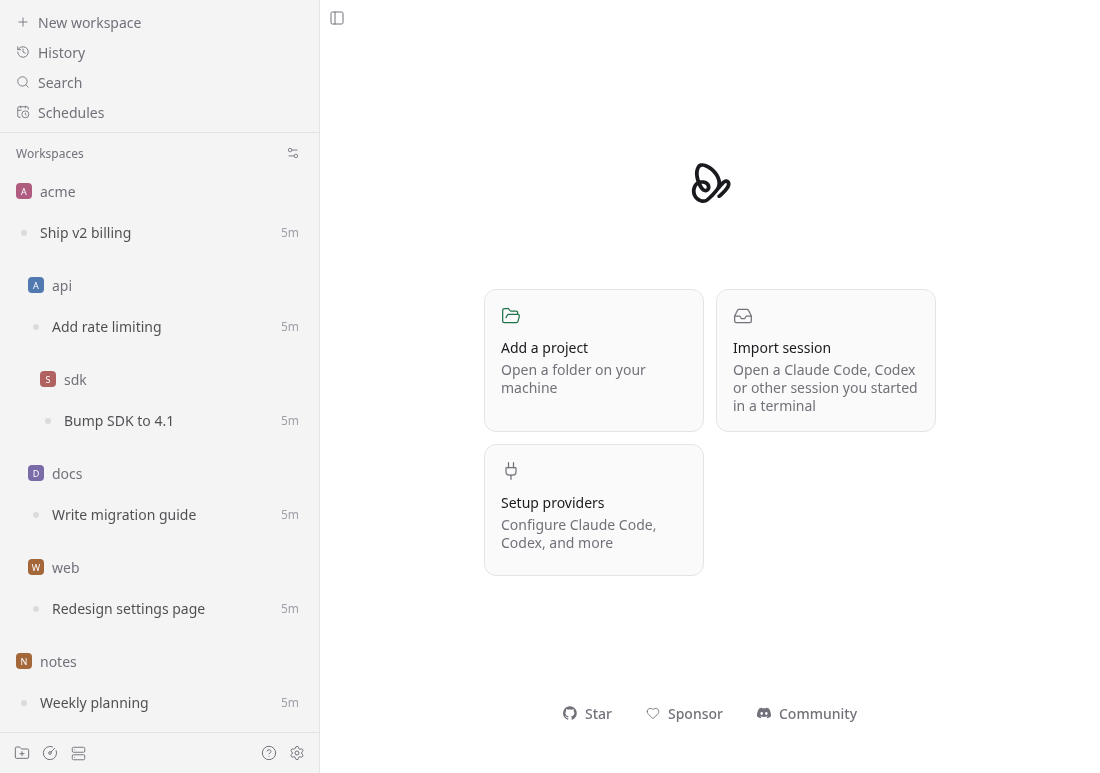
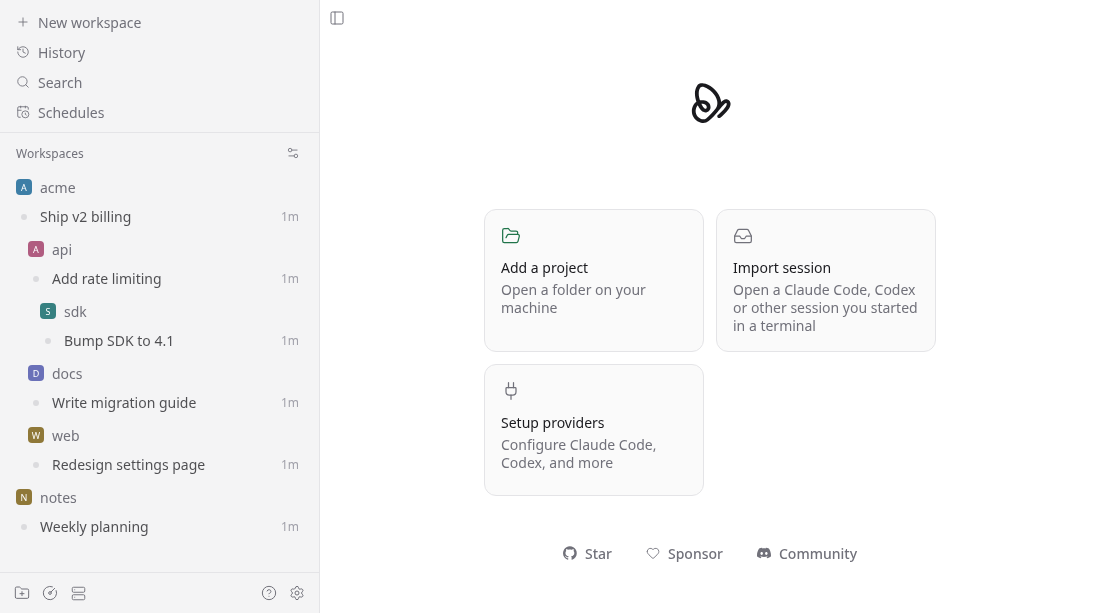
tighten sidebar row spacing
sections wasted about a third of their height on padding and margins.
a stylesheet scoped to the project list drops rows from 36px to 28px
and the gap between projects from 12px to 2px. removed with the plugin.

diff --git a/client/web.ts b/client/web.ts
@@ -5,6 +5,7 @@
  * reads each project's directory from its row test id and sets `order`,
  * `padding-left` and `display` on the section. Nodes are never moved, so
  * React keeps owning the list. An unrecognized structure is left untouched.
+ * A scoped stylesheet tightens the list's vertical spacing.
  */
 import { Platform } from "react-native";
 import { nest } from "./tree";
@@ -12,8 +13,27 @@ import { nest } from "./tree";
 const LIST_SELECTOR = '[data-testid="sidebar-project-workspace-list-scroll"]';
 const ROW_TEST_ID_PREFIX = "sidebar-project-row-";
 const HOST_KEY_PREFIX = "host:";
+const WORKSPACE_ROW_TEST_ID_PREFIX = "sidebar-workspace-row-";
 const SECTION_SELECTOR = '[role="group"]';
 const INDENT_PX = 12;
+// Paseo's own values are 36, 8 and 12 (plus 4 and 2 of row margin, dropped here).
+const ROW_MIN_HEIGHT_PX = 28;
+const ROW_PADDING_Y_PX = 4;
+const SECTION_GAP_PX = 2;
+
+const rows = [ROW_TEST_ID_PREFIX, WORKSPACE_ROW_TEST_ID_PREFIX]
+  .map((prefix) => `${LIST_SELECTOR} [data-testid^="${prefix}"]`)
+  .join(", ");
+// ponytail: one density for pointer and touch; split by layout if 28px rows prove too small to tap.
+const COMPACT_CSS = `
+${rows} {
+  min-height: ${ROW_MIN_HEIGHT_PX}px !important;
+  padding-top: ${ROW_PADDING_Y_PX}px !important;
+  padding-bottom: ${ROW_PADDING_Y_PX}px !important;
+  margin-bottom: 0 !important;
+}
+${LIST_SELECTOR} ${SECTION_SELECTOR} { padding-bottom: ${SECTION_GAP_PX}px !important; }
+`;
 
 // The DOM members this module uses; the project compiles without the DOM lib.
 interface SectionStyle {
@@ -35,7 +55,17 @@ interface DomMutationObserver {
   observe(target: DomElement, options: { childList: boolean; subtree: boolean }): void;
   disconnect(): void;
 }
-declare const document: (DomElement & { readonly body: DomElement }) | undefined;
+interface DomStyleElement {
+  textContent: string | null;
+  remove(): void;
+}
+declare const document:
+  | (DomElement & {
+      readonly body: DomElement;
+      readonly head: { appendChild(node: DomStyleElement): unknown };
+      createElement(tag: "style"): DomStyleElement;
+    })
+  | undefined;
 declare const MutationObserver: new (
   callback: (records: readonly { readonly target: unknown }[]) => void,
 ) => DomMutationObserver;
@@ -88,6 +118,9 @@ export function nestSidebarProjects(): () => void {
   const styled = new Set<DomElement>();
   let list: DomElement | null = null;
   let frame: number | undefined;
+  const compact = page.createElement("style");
+  compact.textContent = COMPACT_CSS;
+  page.head.appendChild(compact);
 
   const apply = (): void => {
     frame = undefined;
@@ -122,6 +155,7 @@ export function nestSidebarProjects(): () => void {
 
   return () => {
     observer.disconnect();
+    compact.remove();
     if (frame !== undefined) cancelAnimationFrame(frame);
     for (const element of styled) setStyle(element, UNSTYLED);
     styled.clear();

diff --git a/docs/provenance.md b/docs/provenance.md
@@ -4,3 +4,4 @@ Append-only ledger of changes to this plugin.
 
 - 2026-11-10: initial plugin. Nesting rule copied from the DeepSeek harness workspace browser (`owningParentFolder` in `@deepseek-ai/dsh-client-ui-workspace` 0.2.2, nearest strict directory ancestor, case-sensitive). Rendered as a plugin screen because `addSidebarView` is on Paseo main (commit a449271d, 2026-11-07) but absent from the 0.15.4 SDK on npm. Verified: `bun test` (2 pass), `bun run typecheck` clean, `paseo plugin install` on daemon 0.15.3 reports `running`. Requested by the repository owner.
 - 2026-11-10: replaced the separate tree screen with in-place nesting of the built-in sidebar list, on the owner's request ("should integrate into the existing workspace list, not a new page"). Sidebar structure read from the Paseo 0.15.3 web UI: sections are children of one flex column, each project row has test id `sidebar-project-row-host:<serverId>:<directory>`, a folded project's `role=group` keeps one child. Verified on a throwaway daemon (0.15.3, web UI, six sample projects) in headless Chrome: order and indent applied (`acme` > `api` > `sdk`), folding `api` hides `sdk`, folding `acme` hides all four descendants, disabling the plugin clears every style, re-enabling restores them. `bun test` 2 pass, `bun run typecheck` clean. Not checked: the Electron app window, drag reordering, non-directory projects. `assets/screenshot.png` is from that sample daemon.
+- 2026-11-10: tightened the list's vertical spacing on the owner's request ("make the margins top down thinner"). Measured in the Paseo 0.15.3 web UI: section bottom padding 12px, project row 8px padding and 4px margin, workspace row 8px padding and 2px margin, 36px minimum row height. A stylesheet scoped to the sidebar list sets 28px minimum height, 4px padding, no row margin and a 2px section gap. Verified on the throwaway daemon in headless Chrome: each one-workspace section went from 94px to 62px, and back to 94px with the plugin disabled. `bun test` 2 pass, `bun run typecheck` clean. `assets/screenshot.png` retaken.

diff --git a/OVERVIEW.md b/OVERVIEW.md
@@ -2,6 +2,6 @@
 
 Nests the sidebar's workspace list by directory, like the "Workspace Tree" view of the DeepSeek harness. A project whose directory sits inside another project's directory is shown under that project, indented one level per step, together with its workspaces. Open `~/app` and `~/app/api` as two projects and `api` appears under `app`.
 
-Nothing is added to the sidebar. The built-in list is rearranged in place, so rows keep their menus, status indicators and shortcuts. Folding a project also hides the projects nested under it. Only projects that are directories on a host are nested, and projects on different hosts never nest under each other.
+Nothing is added to the sidebar. The built-in list is rearranged in place, so rows keep their menus, status indicators and shortcuts. Folding a project also hides the projects nested under it. The list is also made more compact: rows are 28px high instead of 36px and the gap between projects shrinks from 12px to 2px. Only projects that are directories on a host are nested, and projects on different hosts never nest under each other.
 
 Works in the desktop app and the web app on Paseo 0.15.3 or later. On iOS and Android the plugin does nothing. Paseo has no released API for changing the built-in list, so the plugin restyles the list's elements directly and may need an update when Paseo changes the sidebar. Nested projects come after their parent's own workspaces. Reordering projects by dragging is untested with nesting on. The plugin runs only in the app, stores nothing and sends nothing.

diff --git a/README.md b/README.md
@@ -8,7 +8,7 @@ Paseo lists every project at the top level, so `~/app` and `~/app/api` sit side 
 
 ## How it works
 
-Paseo 0.15 has no API to change the built-in list (`addSidebarView`, on Paseo's main branch, replaces the whole list and is not released). `client/web.ts` reads each project's directory from its row's `data-testid`, computes the tree in `client/tree.ts`, and sets `order`, `padding-left` and `display` on the project sections. It never moves nodes, and leaves the list alone when the markup is not what it expects. Disabling the plugin removes the styles.
+Paseo 0.15 has no API to change the built-in list (`addSidebarView`, on Paseo's main branch, replaces the whole list and is not released). `client/web.ts` reads each project's directory from its row's `data-testid`, computes the tree in `client/tree.ts`, and sets `order`, `padding-left` and `display` on the project sections. It never moves nodes, and leaves the list alone when the markup is not what it expects. A scoped stylesheet also tightens the list: 28px rows instead of 36px, 2px between projects instead of 12px. Disabling the plugin removes the styles.
 
 Limits: desktop and web only (a no-op on iOS and Android), tied to Paseo's sidebar markup, nested projects come after the parent's own workspaces, and drag reordering is untested with nesting on.
 
